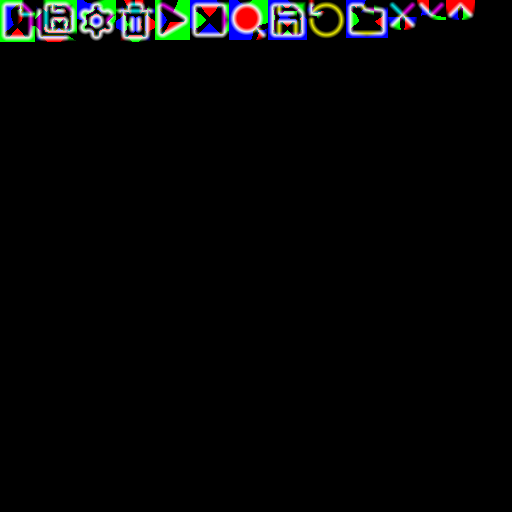
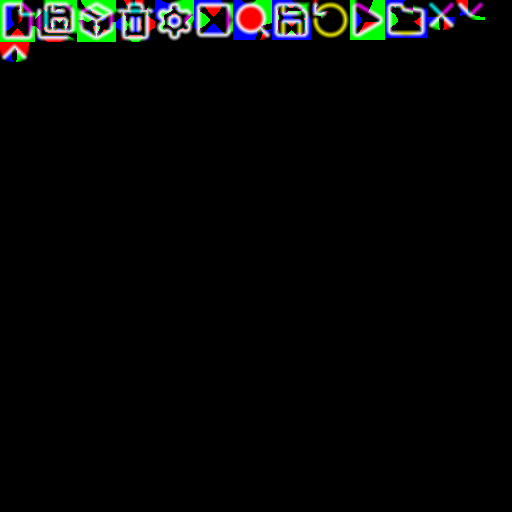
feat(playground): auto-scaffold module.toml on save; rename marker
Rename the project-root marker module.ptf.toml -> module.toml (cleaner,
matches Cargo.toml/pyproject.toml) and collapse it to a single source of
truth: ProjectRoot.MARKER is now canonical and PackageManifest.MARKER
delegates to it, with test literals referencing the constant.

Add a persisted, default-on "Auto-Create module.toml" setting to the
System menu. On a successful save into a directory that is empty apart
from the saved file (or already holds another .ptf) and has no marker
yet, drop an empty module.toml beside it. Best-effort; cluttered general
directories with no sibling .ptf are left untouched.

Make the Save As and Modules toolbar buttons icon-only; add the lucide
`package` glyph to the atlas for the Modules button.

Changed region(s): [[0.2812, 0.0, 0.9375, 0.0938], [0.125, 0.0, 0.25, 0.0938], [0.0, 0.0625, 0.0625, 0.125]]

diff --git a/pontif-playground/src/main/java/sibarum/pontif/playground/App.java b/pontif-playground/src/main/java/sibarum/pontif/playground/App.java
@@ -68,6 +68,7 @@ import sibarum.pontif.runtime.QuickTour;
 import sibarum.pontif.runtime.ReceiptGraphReport;
 import sibarum.pontif.runtime.ReflectionReport;
 import sibarum.pontif.runtime.module.Extensions;
+import sibarum.pontif.runtime.module.ProjectRoot;
 
 import java.io.BufferedReader;
 import java.io.IOException;
@@ -182,6 +183,10 @@ public final class App {
     // open file and boots into the Editor tab; when false (default) it opens the Info/Welcome
     // tab with an untitled buffer. Persisted through SessionState.openMostRecent.
     private static Property<Boolean> openMostRecentSetting;
+    // Settings menu: "Auto-Create module.toml". When true (default) creating a new module
+    // scaffolds a module.toml marker alongside the source. Persisted through
+    // SessionState.autoCreateMarker.
+    private static Property<Boolean> autoCreateMarkerSetting;
     // Last-published cursor string, so the per-frame refresh only writes the
     // ribbon's docked field when the caret actually moved.
     private static String lastCursorText = null;
@@ -332,6 +337,12 @@ public final class App {
             session.setOpenMostRecent(openRecent);
             openMostRecentSetting.subscribe(v -> { if (v != null) session.setOpenMostRecent(v); });
 
+            // "Auto-Create module.toml" setting — defaults on, restored from the session file.
+            boolean autoCreate = restored == null || restored.autoCreateMarker;
+            autoCreateMarkerSetting = new Property<>(autoCreate);
+            session.setAutoCreateMarker(autoCreate);
+            autoCreateMarkerSetting.subscribe(v -> { if (v != null) session.setAutoCreateMarker(v); });
+
             try (Texture primaryTexture = Texture.fromPngResource("/dasum/atlas/primary.png");
                  Texture monoTexture    = Texture.fromPngResource("/dasum/atlas/mono.png");
                  Texture iconsTexture   = Texture.fromPngResource("/dasum/atlas/icons.png")) {
@@ -461,8 +472,9 @@ public final class App {
         Component newBtn    = Themed.iconButton(Icons.FILE,     Em.of(2f), Variant.DEFAULT, 0, App::onNewClicked);
         Component openBtn   = Themed.iconButton(Icons.FOLDER,   Em.of(2f), Variant.DEFAULT, 0, App::onOpenClicked);
         Component saveBtn   = Themed.iconButton(Icons.SAVE,     Em.of(2f), Variant.DEFAULT, 0, App::onSaveClicked);
-        Component saveAsBtn = Themed.iconButton(Icons.SAVE_ALL, "Save As", Em.of(7.5f), Variant.DEFAULT, 0, App::onSaveAsClicked);
-        Component modulesBtn = Themed.button("Modules", Em.of(8f), Variant.DEFAULT, 0, App::openModuleExplorer);
+        Component saveAsBtn = Themed.iconButton(Icons.SAVE_ALL, Em.of(2f), Variant.DEFAULT, 0, App::onSaveAsClicked);
+        // Icons.PACKAGE_ — the codegen appends '_' because `package` is a Java keyword.
+        Component modulesBtn = Themed.iconButton(Icons.PACKAGE_, Em.of(2f), Variant.DEFAULT, 0, App::openModuleExplorer);
         Component systemBtn = Themed.iconButton(Icons.SETTINGS, "System", Em.of(7f), Variant.DEFAULT, 0, App::openSystemMenu);
 
         filenameLabel = new Component.Text(
@@ -1058,9 +1070,55 @@ public final class App {
                 session.onSaved(prevKey, RecoveryStore.keyFor(path), content,
                         path.toAbsolutePath().normalize().toString());
             }
-            Status.good("Saved " + path.getFileName());
+            boolean markerCreated = maybeCreateModuleMarker(path);
+            Status.good(markerCreated
+                    ? "Saved " + path.getFileName() + " · created " + ProjectRoot.MARKER
+                    : "Saved " + path.getFileName());
         } catch (IOException e) {
             Status.bad("Error saving " + path.getFileName() + ": " + e.getMessage(), path.toString());
+        }
+    }
+
+    /**
+     * After a successful save, drop an empty {@code module.toml} beside the file when the
+     * "Auto-Create module.toml" setting is on, the directory has no marker yet, and it looks
+     * like a Pontif source directory — i.e. empty apart from the file just saved, or already
+     * holding another {@code .ptf} source. A directory cluttered with unrelated files (and no
+     * sibling {@code .ptf}) is left untouched, so saving a stray script somewhere general
+     * doesn't scatter markers. Best-effort: any I/O failure just skips the marker.
+     *
+     * @return true if a marker was created (so the caller can fold it into the save message)
+     */
+    private static boolean maybeCreateModuleMarker(Path savedFile) {
+        if (autoCreateMarkerSetting == null || !Boolean.TRUE.equals(autoCreateMarkerSetting.get())) {
+            return false;
+        }
+        Path dir = savedFile.getParent();
+        if (dir == null) return false;
+        Path marker = dir.resolve(ProjectRoot.MARKER);
+        if (Files.exists(marker)) return false;
+
+        Path savedName = savedFile.getFileName();
+        boolean emptyApartFromSaved = true;
+        boolean hasOtherPtf = false;
+        try (java.util.stream.Stream<Path> entries = Files.list(dir)) {
+            for (Path p : (Iterable<Path>) entries::iterator) {
+                if (p.getFileName().equals(savedName)) continue;  // the file we just wrote
+                emptyApartFromSaved = false;
+                if (!Files.isDirectory(p) && p.getFileName().toString().endsWith(".ptf")) {
+                    hasOtherPtf = true;
+                }
+            }
+        } catch (IOException e) {
+            return false;  // can't inspect the directory — don't guess
+        }
+        if (!(emptyApartFromSaved || hasOtherPtf)) return false;
+
+        try {
+            Files.writeString(marker, "", StandardCharsets.UTF_8);
+            return true;
+        } catch (IOException e) {
+            return false;  // save already succeeded; a missing marker is non-fatal
         }
     }
 
@@ -1151,6 +1209,16 @@ public final class App {
                 java.util.List.of(
                         Themed.checkbox(Em.of(1.1f), openMostRecentSetting, Variant.PRIMARY),
                         new Component.Text("Always open most recent file", Em.of(0.95f), MENU_TITLE_FG)),
+                false, 0));
+
+        // Setting: "Auto-Create module.toml". Bound to autoCreateMarkerSetting, whose
+        // subscription (wired in main) mirrors it into the session file.
+        rows.add(new Component.Flex(
+                null, null, Em.ZERO, Color.TRANSPARENT,
+                Direction.ROW, JustifyContent.START, AlignItems.CENTER, Em.of(0.5f),
+                java.util.List.of(
+                        Themed.checkbox(Em.of(1.1f), autoCreateMarkerSetting, Variant.PRIMARY),
+                        new Component.Text("Auto-Create module.toml", Em.of(0.95f), MENU_TITLE_FG)),
                 false, 0));
 
         if (hasRecovery) {

diff --git a/pontif-cli/src/test/java/sibarum/pontif/cli/CliRoundTripTest.java b/pontif-cli/src/test/java/sibarum/pontif/cli/CliRoundTripTest.java
@@ -46,7 +46,7 @@ class CliRoundTripTest {
         // new
         Result created = run("new", "demo.app", "--dir", projectDir.toString());
         assertEquals(0, created.exitCode(), created.stdout());
-        assertTrue(Files.isRegularFile(projectDir.resolve("module.ptf.toml")));
+        assertTrue(Files.isRegularFile(projectDir.resolve(PackageManifest.MARKER)));
         assertTrue(Files.isRegularFile(projectDir.resolve("app.ptf")));
 
         // run the source directory
@@ -67,7 +67,7 @@ class CliRoundTripTest {
 
     @Test
     void packRefusesABrokenProject(@TempDir Path tmp) throws Exception {
-        Files.writeString(tmp.resolve("module.ptf.toml"), "entry = \"broke\"\n");
+        Files.writeString(tmp.resolve(PackageManifest.MARKER), "entry = \"broke\"\n");
         Files.writeString(tmp.resolve("broke.ptf"), "module broke\nfunction f(x:Int):Int -> x +\n");
         Result packed = run("pack", tmp.toString());
         assertEquals(1, packed.exitCode(), "a project that does not compile must not pack");
@@ -77,18 +77,18 @@ class CliRoundTripTest {
     void artifactRoundTripPreservesSources(@TempDir Path tmp) throws Exception {
         Path root = tmp.resolve("src");
         Files.createDirectories(root.resolve("sub"));
-        Files.writeString(root.resolve("module.ptf.toml"), "name = \"x\"\nversion = \"9.9\"\n");
+        Files.writeString(root.resolve(PackageManifest.MARKER), "name = \"x\"\nversion = \"9.9\"\n");
         Files.writeString(root.resolve("a.ptf"), "module a\n0\n");
         Files.writeString(root.resolve("sub/b.ptf"), "module b\n0\n");
 
         Path pkg = tmp.resolve("x.ptfpkg");
         Artifacts.writeZip(pkg, root, List.of(
-                root.resolve("module.ptf.toml"), root.resolve("a.ptf"), root.resolve("sub/b.ptf")));
+                root.resolve(PackageManifest.MARKER), root.resolve("a.ptf"), root.resolve("sub/b.ptf")));
 
         Path back = tmp.resolve("back");
         Artifacts.unpack(pkg, back);
         assertEquals("module a\n0\n", Files.readString(back.resolve("a.ptf")));
         assertEquals("module b\n0\n", Files.readString(back.resolve("sub/b.ptf")));
-        assertTrue(Files.isRegularFile(back.resolve("module.ptf.toml")));
+        assertTrue(Files.isRegularFile(back.resolve(PackageManifest.MARKER)));
     }
 }

diff --git a/pontif-playground/src/main/java/sibarum/pontif/playground/SessionState.java b/pontif-playground/src/main/java/sibarum/pontif/playground/SessionState.java
@@ -35,6 +35,7 @@ final class SessionState {
     int windowHeight = UNSET;
     boolean maximized = false;
     boolean openMostRecent = false;  // setting: reopen openFile + boot into Editor tab on launch
+    boolean autoCreateMarker = true; // setting: scaffold a module.toml when creating a new module (default on)
 
     boolean hasGeometry() {
         return windowWidth > 0 && windowHeight > 0;
@@ -69,6 +70,11 @@ final class SessionState {
         s.windowHeight = parseInt(kv.get("window.height"));
         s.maximized = Boolean.parseBoolean(kv.get("window.maximized"));
         s.openMostRecent = Boolean.parseBoolean(kv.get("open.mostRecent"));
+        // Absent key means "never written" (older build or fresh session) — keep the
+        // default-on value rather than letting parseBoolean(null) force it off.
+        s.autoCreateMarker = kv.containsKey("module.autoCreate")
+                ? Boolean.parseBoolean(kv.get("module.autoCreate"))
+                : true;
         return Optional.of(s);
     }
 
@@ -83,6 +89,7 @@ final class SessionState {
         sb.append("window.height=").append(windowHeight).append('\n');
         sb.append("window.maximized=").append(maximized).append('\n');
         sb.append("open.mostRecent=").append(openMostRecent).append('\n');
+        sb.append("module.autoCreate=").append(autoCreateMarker).append('\n');
         try {
             Files.writeString(file, sb.toString(), StandardCharsets.UTF_8);
         } catch (IOException e) {
@@ -93,7 +100,8 @@ final class SessionState {
     /** A stable serialized form used to skip rewriting an unchanged session. */
     String fingerprint() {
         return openFile + "|" + windowX + "|" + windowY + "|"
-                + windowWidth + "|" + windowHeight + "|" + maximized + "|" + openMostRecent;
+                + windowWidth + "|" + windowHeight + "|" + maximized + "|" + openMostRecent
+                + "|" + autoCreateMarker;
     }
 
     private static int parseInt(String v) {

diff --git a/pontif-playground/src/main/java/sibarum/pontif/playground/SessionManager.java b/pontif-playground/src/main/java/sibarum/pontif/playground/SessionManager.java
@@ -40,6 +40,7 @@ final class SessionManager {
     private volatile int winHeight = SessionState.UNSET;
     private volatile boolean winMaximized = false;
     private volatile boolean openMostRecent = false;  // "Always open most recent file" setting
+    private volatile boolean autoCreateMarker = true; // "Auto-Create module.toml" setting (default on)
 
     // --- guarded by lock: recovery bookkeeping ---
     private final Object lock = new Object();
@@ -118,6 +119,11 @@ final class SessionManager {
         this.openMostRecent = value;
     }
 
+    /** Record the "Auto-Create module.toml" setting so it round-trips through the session file. */
+    void setAutoCreateMarker(boolean value) {
+        this.autoCreateMarker = value;
+    }
+
     /** Sample the window rect (screen coordinates). Maximized geometry is not
      *  recorded as the floating size, so un-maximizing restores the prior box. */
     void updateGeometry(int x, int y, int width, int height, boolean maximized) {
@@ -177,6 +183,7 @@ final class SessionManager {
         s.windowHeight = winHeight;
         s.maximized = winMaximized;
         s.openMostRecent = openMostRecent;
+        s.autoCreateMarker = autoCreateMarker;
         String fingerprint = s.fingerprint();
         if (fingerprint.equals(lastSessionFingerprint)) return;
         s.write(AppPaths.sessionFile());

diff --git a/pontif-cli/src/main/java/sibarum/pontif/cli/PackageManifest.java b/pontif-cli/src/main/java/sibarum/pontif/cli/PackageManifest.java
@@ -1,5 +1,7 @@
 package sibarum.pontif.cli;
 
+import sibarum.pontif.runtime.module.ProjectRoot;
+
 import java.io.IOException;
 import java.nio.file.Files;
 import java.nio.file.Path;
@@ -8,7 +10,7 @@ import java.util.Map;
 import java.util.Optional;
 
 /**
- * The hand-parsed contents of a project's {@code module.ptf.toml} marker, for
+ * The hand-parsed contents of a project's {@code module.toml} marker, for
  * the CLI's purposes: {@code name}, {@code namespace}, {@code version}, and
  * {@code entry}. Deliberately dependency-free — the same single-pass
  * {@code key = "value"} reader the runtime's {@code ProjectRoot} uses, just
@@ -24,7 +26,8 @@ record PackageManifest(
         Optional<String> version,
         Optional<String> entry) {
 
-    static final String MARKER = "module.ptf.toml";
+    /** The project-root marker filename — single source of truth in {@link ProjectRoot#MARKER}. */
+    static final String MARKER = ProjectRoot.MARKER;
 
     static PackageManifest read(Path rootDir) throws IOException {
         Path marker = rootDir.resolve(MARKER);

diff --git a/pontif-runtime/src/main/java/sibarum/pontif/runtime/module/ProjectRoot.java b/pontif-runtime/src/main/java/sibarum/pontif/runtime/module/ProjectRoot.java
@@ -6,7 +6,7 @@ import java.nio.file.Path;
 import java.util.Optional;
 
 /**
- * A Pontif project root: the directory holding the {@code module.ptf.toml}
+ * A Pontif project root: the directory holding the {@code module.toml}
  * marker (echoing SPN's {@code module.spn}). The marker's presence marks the
  * root; its one optional hand-parsed line, {@code entry = "a.b"}, names the
  * module whose {@code main} runs. No TOML dependency — anything past the single
@@ -14,7 +14,7 @@ import java.util.Optional;
  */
 public record ProjectRoot(Path rootDir, Optional<String> entryModule) {
 
-    public static final String MARKER = "module.ptf.toml";
+    public static final String MARKER = "module.toml";
 
     /**
      * Reads the project root at {@code rootDir}, parsing the optional

diff --git a/pontif-runtime/src/test/java/sibarum/pontif/runtime/CrossModuleVisibilityTest.java b/pontif-runtime/src/test/java/sibarum/pontif/runtime/CrossModuleVisibilityTest.java
@@ -4,6 +4,7 @@ import org.junit.jupiter.api.Test;
 import org.junit.jupiter.api.io.TempDir;
 import sibarum.pontif.runtime.PontifCompiler.CompileResult;
 import sibarum.pontif.runtime.PontifRunner.Engine;
+import sibarum.pontif.runtime.module.ProjectRoot;
 
 import java.io.IOException;
 import java.nio.file.Files;
@@ -38,7 +39,7 @@ class CrossModuleVisibilityTest {
                 function mk():Vec -> Vec(1, 2)
                 function +(a:Vec, b:Vec):Vec -> Vec(a.x + b.x, a.y + b.y)
                 """);
-        write(root, "module.ptf.toml", "entry = \"app.use\"\n");
+        write(root, ProjectRoot.MARKER, "entry = \"app.use\"\n");
     }
 
     @Test

diff --git a/pontif-cli/src/main/java/sibarum/pontif/cli/Pack.java b/pontif-cli/src/main/java/sibarum/pontif/cli/Pack.java
@@ -20,7 +20,7 @@ import java.util.stream.Stream;
  * <p>The project is first <b>validated by compiling it</b>
  * ({@code compileProjectDir}), so a project that doesn't compile — or whose
  * proof gates reject it — never produces an artifact. Only then are the
- * {@code module.ptf.toml} marker and every {@code .ptf} source zipped (paths
+ * {@code module.toml} marker and every {@code .ptf} source zipped (paths
  * preserved relative to the root). Symmetric with {@link Artifacts#run}.
  */
 @Command(name = "pack",

diff --git a/pontif-cli/src/main/java/sibarum/pontif/cli/Artifacts.java b/pontif-cli/src/main/java/sibarum/pontif/cli/Artifacts.java
@@ -13,7 +13,7 @@ import java.util.zip.ZipOutputStream;
 
 /**
  * The {@code .ptfpkg} artifact format: a plain zip of a project's
- * {@code module.ptf.toml} marker and its {@code .ptf} sources, paths preserved
+ * {@code module.toml} marker and its {@code .ptf} sources, paths preserved
  * relative to the project root. Source bundle, not compiled IR — so execution
  * re-runs the full compile/proof pipeline and an artifact can never carry
  * unproven code past the gates.

diff --git a/pontif-runtime/src/main/java/sibarum/pontif/runtime/PontifCompiler.java b/pontif-runtime/src/main/java/sibarum/pontif/runtime/PontifCompiler.java
@@ -146,7 +146,7 @@ public final class PontifCompiler {
     }
 
     /**
-     * Compiles a project from disk: discovers the {@code module.ptf.toml} root
+     * Compiles a project from disk: discovers the {@code module.toml} root
      * marker, scans + parses every {@code .ptf} module under {@code rootDir},
      * resolves the entry module (marker {@code entry}, else the sole module with
      * a {@code main}), and links. The on-disk counterpart of

diff --git a/pontif-cli/src/main/java/sibarum/pontif/cli/New.java b/pontif-cli/src/main/java/sibarum/pontif/cli/New.java
@@ -12,7 +12,7 @@ import java.util.stream.Stream;
 
 /**
  * {@code pontif new <namespace>} — scaffold a fresh project: a directory with a
- * {@code module.ptf.toml} marker (name / namespace / version / entry) and one
+ * {@code module.toml} marker (name / namespace / version / entry) and one
  * sample {@code .ptf} module that declares the namespace and ends in a runnable
  * {@code main}. The result runs as-is ({@code pontif run <dir>}).
  *

diff --git a/pontif-cli/src/main/java/sibarum/pontif/cli/Run.java b/pontif-cli/src/main/java/sibarum/pontif/cli/Run.java
@@ -10,7 +10,7 @@ import java.util.concurrent.Callable;
 
 /**
  * {@code pontif run <target>} — execute a single {@code .ptf} file, a project
- * directory (one holding a {@code module.ptf.toml} marker, or a sole module
+ * directory (one holding a {@code module.toml} marker, or a sole module
  * with a {@code main}), or a packaged {@code .ptfpkg} artifact.
  *
  * <p>Each target shape maps onto an existing compiler entry point:
